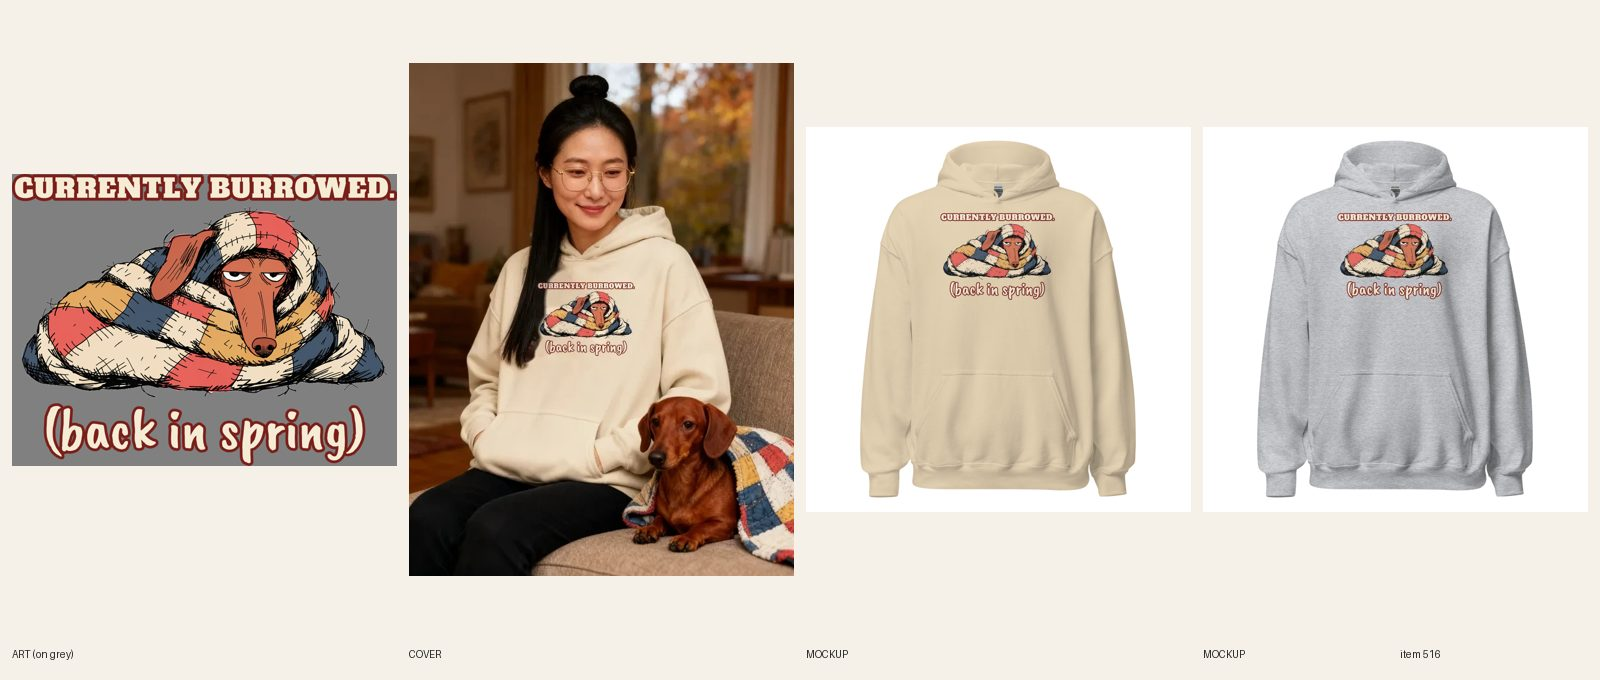
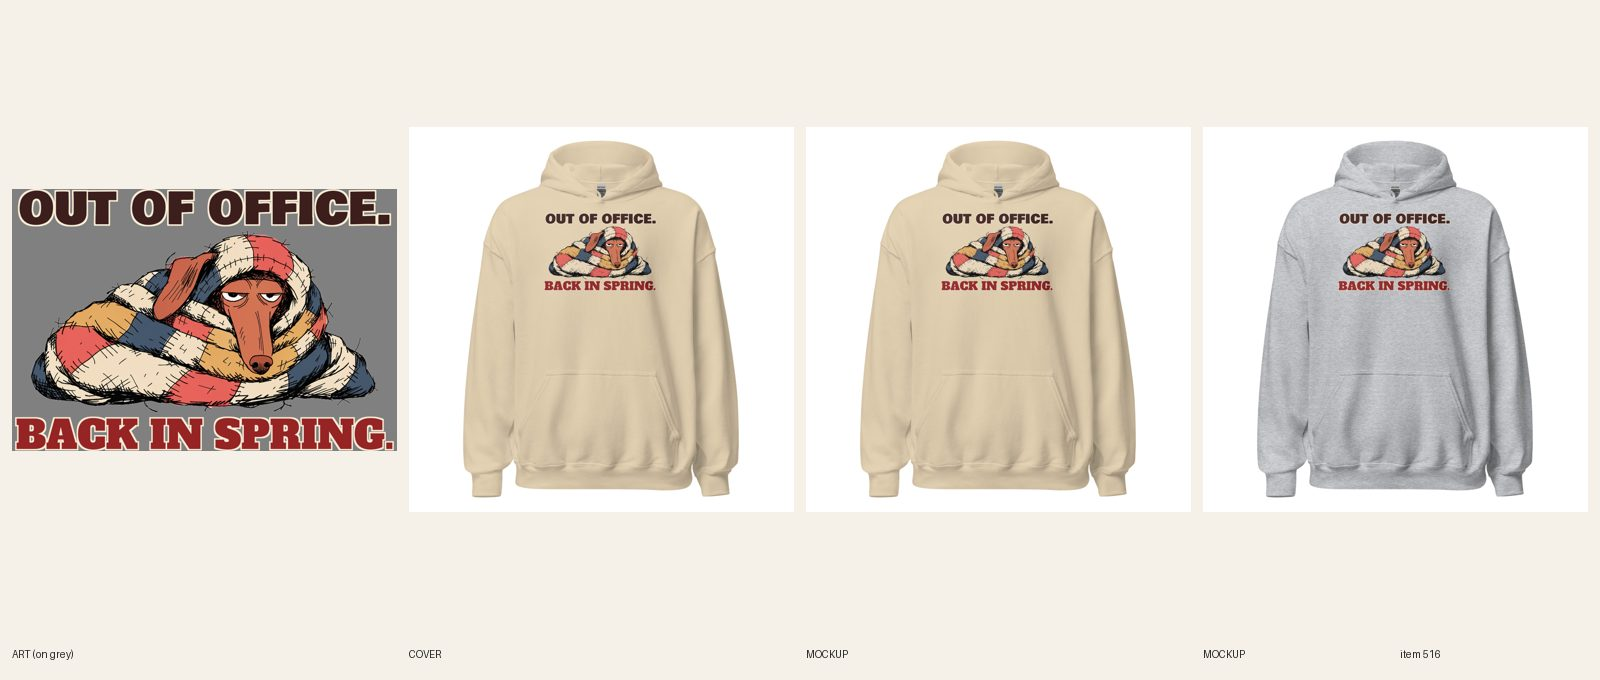
[C] review 516 (redo)
Claude-Session: https://claude.ai/code/session_01CCHcDj8LcJJ8qUPtKE3cvn

Changed region(s): [[0.0, 0.0926, 0.5, 0.8647], [0.8125, 0.3088, 0.9062, 0.4632], [0.5938, 0.3088, 0.6562, 0.4324]]

diff --git a/designs/c516/make.py b/designs/c516/make.py
@@ -1,0 +1,9 @@
+import sys; sys.path.insert(0,'.')
+from designs.lib import *
+im=Image.open('docs/print-files/516-currently-burrowed-hoodie.png').convert('RGBA'); W=im.width
+art=im.crop((0,291,W,1986)); art=art.crop(art.getbbox()); art=art.resize((int(art.width*0.95),int(art.height*0.95)),Image.LANCZOS)
+DK=(60,30,28,255); RED=(190,54,52,255); DRED=(150,36,36,255); CORAL=(240,120,110,255)
+for tag,c1,k1,c2,k2,bg in (('sand',DK,CREAM,DRED,CREAM,(214,196,160,255)),('grey',DK,CREAM,DRED,CREAM,(160,160,165,255))):
+    h1=line("OUT OF OFFICE.",'bowlby',0.97,W,c1,k1,kw=29); pa=line("BACK IN SPRING.",'alfa',0.985,W,c2,k2,kw=27); pb=pa
+    print(tag,'headline px',h1.width,'punch px',pa.width,pb.width,'heights',h1.height,pa.height,pb.height,'art',art.size)
+    out=lockup(art,W,[h1],[pa],f'516-v2-quilt-{tag}',{tag:bg}); print(out.size,out.height/out.width)

diff --git a/docs/pipeline/516-dachshund-hoodie-currently-burrowed.md b/docs/pipeline/516-dachshund-hoodie-currently-burrowed.md
@@ -1,4 +1,4 @@
-status: BUILDING [C] 2026-10-20 09:16
+status: REVIEW
 lane: C
 type: twin
 id: 516
@@ -27,3 +27,4 @@ kd: 34
 - 2026-10-18 02:39 UTC builder [C]: Sync 12/12. REVIEW. Sheet docs/review/516.jpg.
 - 2026-10-18 03:30 UTC director: LIVE (ACTIVE + published, audit PASS).
 - 2026-10-18 17:22 UTC director: QUALITY RESET grade C (new line + type), REDO. The product stays ACTIVE (same handle, URL, title keyword). 1. Line (R3.12, quality-reset 'Lines'): "CURRENTLY BURROWED. / (back in spring)": Same as 513: noun plus mild aside, cute not funny. Write 5 candidates, keep the one a stranger laughs at in 3 seconds without backstory; kill lines that only describe the picture; if none of the 5 is funny, PARK it. 2. Quality reset type bar (docs/backlog/quality-reset.md, 'The new bar'): headline at least 90% of the art width, heavy, colors pulled from the art; second line at least 45% of the headline's height, never a thin script on a dark or mid garment; use the lettering as a shape (arch, stacked lockup, words breaking into the art), not a plain bar above and a script line below; no font used on more than 1 in 6 of the last 30 designs. 3. Keep the art if it carries the new line, else one new illustration (R4/R5). New print means a new cover per R6.10, copy line one rewritten for the new joke (R8.3), and a fresh review sheet (R7.7). While quality-reset.md says PAUSED, only lane A builds, and only the samples step 2 names.
+- 2026-10-20 09:23 UTC builder [C]: REDO new line + type (grade C; title card 7i done). 5 candidates, compared with Oops. Anyway., Plot Twist: I Stayed In and Wildly Low Maintenance: "OUT OF OFFICE. / BACK IN SPRING." (kept: it keeps the funny half of the old line and adds the setup; the quilted dachshund is the out-of-office message), "CURRENTLY BURROWED. (back in spring)" (old), "EMOTIONALLY UNDER A QUILT", "DO NOT DISTURB. DACHSHUND IN PROGRESS.", "I'LL BE IN MY BURROW". Same quilt-dachshund art at 95%. Measured ink widths (card 7h): headline OUT OF OFFICE. 3309 px / punch BACK IN SPRING. 3360 px (102%). Bowlby One headline, Alfa Slab One punch. Both Sand and Sport Grey are light and take one file; no cream fills, so no light-file split (logged: light file not needed, ink dark brown and red with a cream keyline); file 1090275442 on Sand, 1090275478 on Sport Grey (same art; docs/print-files/516-v2-quilt-sand.png / -grey.png). Print 3415 x 2321, FW 1650 TOP 30 (wide and short, about 1,120 px high, far above the pouch), 12/12 relinked (verified on the API). 2 fronts replaced in place, read at phone size. Title set to "Women's Dachshund – Out of Office, Back in Spring Hoodie" (handle unchanged); copy, FAQ and SEO rewritten; handle in retired-covers.json. Plain product shot. fal $0.

diff --git a/docs/intake-log.md b/docs/intake-log.md
@@ -23,6 +23,7 @@ RUNNING lane B since 2026-10-20 09:02 UTC
 2026-10-20 07:44 UTC — [B] Builder run: REDO round 3 of #455 Unisex Hanukkah Lost My Gelt crewneck (dreidel face marks painted out, Navy file 1090236634 + Sport Grey file 1090236680, FW 1650 TOP 0, 12/12 relinked, 2 fronts replaced in place) and #469 Women's Christmas embroidered crewneck (new line BOOKED / THROUGH JANUARY., headline 2197 / punch 2197 px, Sand file 1090237592 + Navy file 1090237605, 12/12 synced, title/SEO/copy/alts updated). Both REVIEW. #498 left for director (R3.14 note). fal $0.
 2026-10-20 08:00 UTC — [E] Builder run: redid #608 Women's Pickleball tee (line + type: POLITE SMILE. / PERSONAL VENDETTA., same serene-lady art, Bevan, dark-ink file on 5 light colors, 30/30 synced). REVIEW. fal $0.
 RUNNING lane C since 2026-10-20 07:00 UTC
+2026-10-20 09:23 UTC — [C] Builder run: redid #516 Women's Dachshund hoodie (new line + type: OUT OF OFFICE. / BACK IN SPRING., headline 3309 px / punch 3360 px, Bowlby + Alfa, same quilt art, Sand file 1090275442 + Sport Grey file 1090275478, FW 1650 TOP 30, 12/12 relinked, 2 fronts replaced in place, title + copy + SEO updated). REVIEW. fal $0.
 2026-10-20 09:16 UTC — [C] Builder run: redid #371 Women's Sunflower zip hoodie (new line + type: SUNSHINE. / DO NOT TOUCH THE PETALS., headline 3291 px / punch 3336+2825 px, Bowlby + Big Shoulders, same sunflower art, Ash file 1090272572 + Navy file 1090272641, BW 1650 BT 225, 14/14 relinked, back mockups updated, title + copy + SEO updated). REVIEW. fal $0.
 2026-10-20 09:05 UTC — [C] Builder run: redid #364 Women's Soccer zip hoodie (new line + type: HALFTIME SNACKS: / MY ONLY JOB., headline 3264 px / punch 3302 px, Big Shoulders + Bowlby, same cooler art, Ash file 1090270165 + Navy file 1090270200, BW 1650 BT 225, 12/12 relinked, back mockups replaced, title + copy + SEO updated). REVIEW. fal $0.
 2026-10-20 09:01 UTC — [C] Builder run: redid #508 Women's National Park bison hoodie (new line + type: WE'RE NOT LOST. / THE TRAIL MOVED., headline 3042 px / punch 3102 px, Big Shoulders + Bowlby, same bison art with worn edges, Sand file 1090268565 + Navy file 1090268624, FW 1500 TOP 0, 12/12 relinked, 2 fronts replaced in place, title + copy + SEO updated). REVIEW. fal $0.
